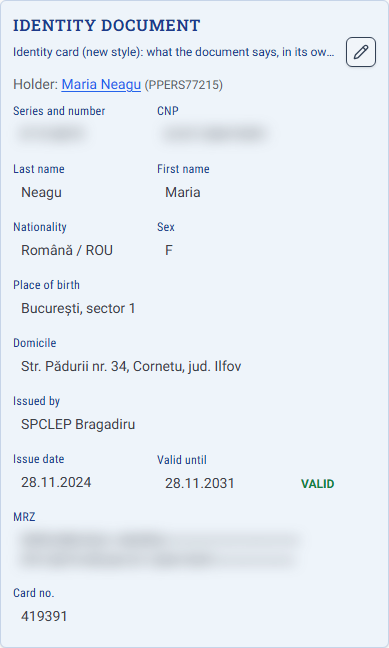
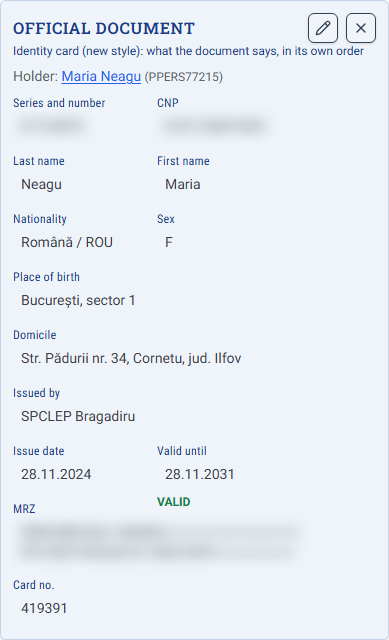
docs(manual): chapters 6, 10 and 11 after 41.13–41.85, with their figures re-shot (41.93)
Both languages:
- chapter 6: the „Tip" column without a funnel (41.55); „Pagini" blue, not purple
  (41.68 — e4313fa1 fixed chapter 2 and missed this line); the four identity
  types „(F)", their form „Actul oficial" (41.49, 41.50); the notary office a
  „Notar" link in „Legături", which „Dezasociază" refuses (41.53); the status
  under „Valabil până la" (41.32); „Creează persoane din CI" disabled while the
  act has a holder (41.33); „Preț și plată" as migration_123 lays it out
  (41.25); every link or unlink of „Actul modificat" a version of the act
  adițional, and no fallback field offered while it is linked (41.54, 41.31);
- chapter 10: „Țară" chosen from „Țara adresei" (41.51); „Cetățenia" kept as
  printed, „Forme tipărite" (41.52); the CI button only while there is no holder
  (41.33);
- chapter 11: a name in the tree opens the person with „Adaugă o rudă" (41.72);
  „Deschide arborele întreg" over the person's screen, „Restrânge" back into the
  tile (41.87 — e4313fa1 fixed only chapter 3).
Quizzes corrected in place: documents-read-pages a1 (blue), documents-choose-
document-type b6 (the identity types have a form).
Figures re-shot from the dev seed, both languages, 0 maps: documents-antecontract,
documents-pages, documents-sale, identity-document (series, number, CNP and MRZ
blurred), reports-search.

Claude-Session: https://claude.ai/code/session_011Fi7mpRoEhCFzhM2R3W5NG

diff --git a/src/lib/manual/content/ro-RO/06-documents.ts b/src/lib/manual/content/ro-RO/06-documents.ts
@@ -23,7 +23,7 @@ Deasupra tabelului, pe un rând, stau caseta de căutare („caută după Cod, T
 
 ### 6.1.1 Filtrele listei {#documents-list-filters}
 
-Lista actelor se filtrează ca lista proprietăților, din pâlnia din colțul numelui unei coloane (secțiunea [[properties-list-filters]]). Pâlnia de pe „Tip” deschide aceeași listă de bife ca „Tip document:”, iar cele două arată mereu aceeași alegere. „Tip document:” și „Câmp specific:”, de pe rândul de sus, sunt mereu acolo și se poartă ca mai sus; filtrele puse din coloane devin etichete pe rândul de sub el, care apare doar cât timp este pus unul. „Expiră curând”, de pe același rând de sus, lângă „Câmpuri afișate”, este tot un filtru: apăsat, lista păstrează doar actele a căror valabilitate se încheie în curând; apăsat din nou, renunță la filtru.
+Lista actelor se filtrează ca lista proprietăților, din pâlnia din colțul numelui unei coloane (secțiunea [[properties-list-filters]]). Coloana „Tip” nu are pâlnie: tipul se alege doar din „Tip document:”. „Tip document:” și „Câmp specific:”, de pe rândul de sus, sunt mereu acolo și se poartă ca mai sus; filtrele puse din coloane devin etichete pe rândul de sub el, care apare doar cât timp este pus unul. „Expiră curând”, de pe același rând de sus, lângă „Câmpuri afișate”, este tot un filtru: apăsat, lista păstrează doar actele a căror valabilitate se încheie în curând; apăsat din nou, renunță la filtru.
 
 Coloanele care se pot filtra, alese în „Câmpuri afișate”:
 
@@ -39,7 +39,7 @@ Toate filtrele se adună, „Tip document:” și „Câmp specific:” cu tot: 
 
 Apăsați „Adaugă act”. Se deschide „Act nou”, cu fișa „Identificarea actului”. Alegeți întâi „Tip document” (secțiunea [[documents-type]]), apoi completați câmpurile și apăsați „Salvează”. Actul se deschide pe ecranul lui, cu titlul în capul ecranului și cu starea „Neprocesat”. Fiecare salvare face o versiune nouă a actului (secțiunea [[links-versions]]).
 
-Paginile se văd în fișa „Pagini”, mov, în dreapta formularului — pe un ecran îngust, sub el (Figura [[fig-documents-pages]]). Un act fără pagini arată „Nicio pagină adăugată”.
+Paginile se văd în fișa „Pagini”, albastră, în dreapta formularului — pe un ecran îngust, sub el (Figura [[fig-documents-pages]]). Un act fără pagini arată „Nicio pagină adăugată”.
 
 ![6.1 Fișa „Pagini” a unui act](documents-pages.png){#fig-documents-pages}
 
@@ -73,7 +73,7 @@ Pe rândul fiecărei pagini, lipite de marginea din dreapta a listei, sunt „No
 
 „Tip document” spune ce fel de act este, iar tipul hotărăște ce câmpuri are formularul, cum se numesc emitentul, numărul și data și ce roluri pot avea persoanele legate de act. Pe „Act nou”, câmpul pornește gol.
 
-Tipurile care au formular propriu se citesc în listă cu „(F)” după nume — de exemplu „Contract de Vânzare (F)”. „F” înseamnă că tipul are formular: ținând mouse-ul pe el, lista scrie întreg „(are formular)”. Cum alegeți un astfel de tip, formularul crește cu fișele lui. Un tip fără formular păstrează doar câmpurile generale ale actului. Pentru un utilizator cu rol de superutilizator, sub „Tip document” al unui tip fără formular scrie „Acest tip nu are încă formular; formularul se construiește în Distilare Tipizate.”, iar „Distilare Tipizate” deschide instrumentul cu tipul deja ales (secțiunea [[tools-doc-type-engine]]).
+Tipurile care au formular propriu se citesc în listă cu „(F)” după nume — de exemplu „Contract de Vânzare (F)”. „F” înseamnă că tipul are formular: ținând mouse-ul pe el, lista scrie întreg „(are formular)”. Tot cu „(F)” se citesc cele patru tipuri de act de identitate: formularul lor este fișa „Actul oficial” (secțiunea [[documents-identity]]). Cum alegeți un astfel de tip, formularul crește cu fișele lui. Un tip fără formular păstrează doar câmpurile generale ale actului. Pentru un utilizator cu rol de superutilizator, sub „Tip document” al unui tip fără formular scrie „Acest tip nu are încă formular; formularul se construiește în Distilare Tipizate.”, iar „Distilare Tipizate” deschide instrumentul cu tipul deja ales (secțiunea [[tools-doc-type-engine]]).
 
 Fișele care se văd se aleg cu bifele din „Panouri”, ca pe orice obiect (secțiunea [[start-tiles]]), iar alegerea se ține minte pentru fiecare tip: un contract de vânzare-cumpărare și un plan își păstrează fiecare aranjamentul lui. Dacă schimbați tipul unui act, se schimbă și fișele.
 
@@ -90,6 +90,8 @@ Fiecare act începe cu fișa „Identificarea actului”: „Tip document”, ap
 | Certificat de Moștenitor | Notariat | Nr. certificat de moștenitor | Data eliberării |
 
 **Emitentul este o persoană juridică.** Lista lui ține persoanele juridice de un tip de autoritate publică — instanțe, birouri notariale, primării, oficiul de cadastru (secțiunea [[companies-add-public-bodies]]); lupa de lângă ea, „Caută o persoană juridică”, găsește orice persoană juridică după denumire, poreclă, cod sau CUI, întâi autoritățile publice. Când AI-ul importului a citit un emitent pe pagini și actul nu are încă unul, câmpul arată sub căsuță ce a citit — „Citit de AI ca emitent: „…”” — cu un singur buton: „Folosește „…”” când instituția e în arhivă, sau „Adaugă „…” ca persoană juridică” când nu e. Nu se alege nimic până nu apăsați, și nu se păstrează nimic până la „Salvează”. O instituție adăugată astfel primește tipul pe care i-l sugerează numele și o legătură spre ecranul ei, unde îi adăugați CUI-ul și o completați din ANAF (secțiunea [[companies-add-anaf]]).
+
+**Biroul notarial este și o legătură.** La cele cinci tipuri al căror emitent se numește „Notariat” — „Contract de Vânzare”, „Act Adițional”, „Certificat de Moștenitor”, „Act de Donație” și „Testament” —, biroul ales la „Notariat” apare după „Salvează” și pe „Legături”, la persoanele juridice, cu rolul „Notar”. Dacă alegeți alt birou, legătura trece la el. Legătura aceasta nu se scoate din „Legături”: „Dezasociază” răspunde „Biroul notarial se schimbă din „Identificarea actului”.”. Un notar legat de mână, cu „Asociază persoană”, rămâne cum este.
 
 Tot aici stau câmpurile generale: „Etichetă scurtă”, titlul actului — cel din coloana „Titlu” a listei —, „Subiect” și „Note extinse”. Căsuțele în care scrieți text cresc singure cât e nevoie.
 
@@ -108,9 +110,10 @@ Un act de unul dintre cele patru tipuri de act de identitate (secțiunea [[perso
 ![6.2 Fișa „Actul oficial” a unei cărți de identitate](identity-document.png){#fig-identity-document}
 
 - Sus, „Titular:” numește persoana legată de act ca „Titular act de identitate”, cu legătura spre ea.
-- Lângă „Valabil până la” — la pașaport, „Data expirării” — stă starea: „VALABIL”, „EXPIRAT” sau „EXPIRĂ ÎN 30 ZILE”, ca pe persoană. Buletinul vechi nu are această dată, deci nici stare.
+- Sub „Valabil până la” — la pașaport, „Data expirării” — stă starea: „VALABIL”, „EXPIRAT” sau „EXPIRĂ ÎN 30 ZILE”, ca pe persoană. Buletinul vechi nu are această dată, deci nici stare.
 - Un CNP fără cifra de control corectă nu se salvează: „CNP-ul trebuie să aibă 13 cifre și o cifră de control corectă.”. Un CNP care nu se potrivește cu „Sex” sau cu data nașterii se salvează, cu un avertisment sub fișă.
 - La schimbarea tipului între două acte de identitate, „Schimbă tipul…” arată ce câmpuri de identitate se șterg la salvare (secțiunea [[documents-type]]). Un act de identitate nu trece la un tip obișnuit cât timp are date de identitate completate: fereastra o spune și nu are „Confirmă”.
+- „Creează persoane din CI” citește prima pagină a actului și creează titularul și părinții lui (secțiunea [[persons-id-card-document]]). Cât timp actul are un titular, butonul este inactiv; ținut sub mouse, spune „Actul are deja un titular: …”.
 
 Un act de identitate nou se face din „Acte” → „Adaugă act”, alegând tipul, sau de pe persoană, cu „Adaugă act de identitate” (secțiunea [[persons-identity-documents]]). Câmpurile fiecărui fel de act se văd, doar de citit, în „Date de referință” (secțiunea [[admin-reference-data-document-types]]).
 
@@ -152,7 +155,7 @@ Fișele formularului și panourile lor:
 
 În „[Taxe și onorarii]” stau, câte două pe un rând, „Onorariu notarial” și „Impozit transfer”, apoi „Timbru judiciar” și „Taxă timbru și publicitate”.
 
-Câteva câmpuri stau într-o ordine anume. În „[Preț]”, primul rând este „Preț total”, „Monedă” și „Preț declarat real”. În „[Situația în cartea funciară]”, „Marcaj carte funciară” stă singur, iar „Consimțământ radiere” și „Intabulare posibilă” sunt pe rândul de sub el. În „[Excepția de la cadastru]”, „Temei excepție cadastru”, „Termen formalități” și „Completare ulterioară” țin fiecare un rând întreg, iar „Renunțare cercetare OCPI” și „Obligație număr cadastral” stau singure pe rândul lor. În „[Plată]”, „Stare plată” și „Data plății” stau pe un rând, iar „Modalitate plată” pe rândul de sub „Stare plată”. În „[Dosar cadastral]”, „Documentație finalizată” stă sub „Categorie internă”. Declarațiile vânzătorului stau câte două pe un rând, de la „Circuit civil” și „Liber de sarcini”. În „[Garanții]”, „Garanție evicțiune” și „Garanție vicii ascunse” sunt pe un rând, iar „Temei legal evicțiune”, sub ele, cât toată fișa. În „[Cheltuieli]”, „Cheltuieli perfectare” și „Plătitor taxe locale” sunt pe un rând, iar „Taxe locale la zi” pe rândul de sub ele.
+Câteva câmpuri stau într-o ordine anume. În „[Preț]”, „Preț total” și „Monedă” stau pe primul rând, „Preț declarat real” pe rândul de sub ele, iar „Temei preț” și „Alocare preț” țin fiecare un rând întreg. În „[Situația în cartea funciară]”, „Marcaj carte funciară” stă singur, iar „Consimțământ radiere” și „Intabulare posibilă” sunt pe rândul de sub el. În „[Excepția de la cadastru]”, „Temei excepție cadastru”, „Termen formalități” și „Completare ulterioară” țin fiecare un rând întreg, iar „Renunțare cercetare OCPI” și „Obligație număr cadastral” stau singure pe rândul lor. În „[Plată]”, „Stare plată”, „Data plății” și „Modalitate plată” stau una sub alta, fiecare pe rândul ei. În „[Dosar cadastral]”, „Documentație finalizată” stă sub „Categorie internă”. Declarațiile vânzătorului stau câte două pe un rând, de la „Circuit civil” și „Liber de sarcini”. În „[Garanții]”, „Garanție evicțiune” și „Garanție vicii ascunse” sunt pe un rând, iar „Temei legal evicțiune”, sub ele, cât toată fișa. În „[Cheltuieli]”, „Cheltuieli perfectare” și „Plătitor taxe locale” sunt pe un rând, iar „Taxe locale la zi” pe rândul de sub ele.
 
 **Fișa „Părți”** ține vânzătorii și cumpărătorii, după regula din secțiunea [[documents-parties]]. Părțile stau pe grupe, sub numele rolului — „Vânzător” întâi, apoi „Cumpărător” —, fiecare rând cu „Cotă” lui (secțiunea [[documents-parties]]). Un contract fără părți spune „Nicio parte asociată încă. Asociați părțile cu rolul și cota lor.” „Asociază persoană” adaugă o parte: căutați persoana după „Nume” sau „Cod”, alegeți „Rol”, bifați rândul și apăsați „Asociază selecția”. „Dezasociază” scoate partea selectată. Celelalte persoane ale contractului, de pildă notarul, stau pe „Legături”, iar proprietățile vândute se leagă tot de acolo.
 
@@ -182,9 +185,9 @@ Pe contract, antecontractul apare și în formular: în „[Preț]”, „Temei 
 
 Un act adițional modifică un alt act. Are fișele „Identificarea actului” (cu numele notariale, apoi „Calitate exemplar” și „Onorariu notarial” pe un rând și „Exemplare emise” sub ele, cât toată fișa), „Actul modificat”, „Ce modifică” și „Părți”, care ține, ca la contract, vânzătorii și cumpărătorii (secțiunea [[documents-parties]]).
 
-„Actul modificat” leagă actul adițional de contractul pe care îl modifică. Salvați întâi actul adițional, apoi apăsați „Leagă actul modificat”, căutați la „Caută actul modificat” după etichetă sau număr și apăsați „Leagă” pe actul potrivit. Fișa arată atunci actul legat, tipul lui și „Deschide”; „Dezleagă” desface legătura.
+„Actul modificat” leagă actul adițional de contractul pe care îl modifică. Salvați întâi actul adițional, apoi apăsați „Leagă actul modificat”, căutați la „Caută actul modificat” după etichetă sau număr și apăsați „Leagă” pe actul potrivit. Fișa arată atunci actul legat, tipul lui și „Deschide”; „Dezleagă” desface legătura. Fiecare legare și fiecare dezlegare face o versiune nouă a actului adițional (secțiunea [[links-versions]]): o versiune mai veche arată, doar de citit, actul pe care îl modifica atunci, iar „Fă curentă” îl leagă din nou — sau spune de ce nu se poate, de exemplu „Actul „…” nu mai există; legătura nu s-a refăcut.”.
 
-Dacă actul modificat nu este în arhivă, fișa scrie „Actul modificat nu e în arhivă — datele lui, așa cum le dă actul adițional:” și oferă patru câmpuri, întâi „Nr. act părinte”. Când legați actul, câmpurile acestea se ascund, dar nu se golesc; dacă îl dezlegați, reapar cu valorile lor. Un act adițional modifică un singur act: un al doilea este refuzat, cu „Acest act adițional modifică deja „…”. Dezlegați-l întâi.”
+Dacă actul modificat nu este în arhivă, fișa scrie „Actul modificat nu e în arhivă — datele lui, așa cum le dă actul adițional:” și oferă patru câmpuri, întâi „Nr. act părinte”. Când legați actul, câmpurile acestea se ascund, dar nu se golesc — nici linkul fișei cu câmpurile goale nu le mai oferă; dacă îl dezlegați, reapar cu valorile lor. Un act adițional modifică un singur act: un al doilea este refuzat, cu „Acest act adițional modifică deja „…”. Dezlegați-l întâi.”
 
 „Ce modifică” ține „Motiv completare”, „Efect urmărit”, „Preț neschimbat” și clauzele schimbate.
 

diff --git a/src/lib/manual/content/ro-RO/10-import.ts b/src/lib/manual/content/ro-RO/10-import.ts
@@ -131,7 +131,9 @@ Spre sfârșitul importului se deschid, pe rând, două feluri de ferestre.
 „Creează persoană din cartea de identitate” („Card 1 din 2”, de exemplu) se deschide pentru fiecare act de identitate: carte de identitate, veche sau nouă, ori pașaport. O singură citire hotărăște întâi ce fel de act este și o spune — „Act citit: Pașaport.”, de exemplu; dacă importul îl clasificase altfel, fereastra adaugă că la salvare actul trece la felul citit. Apoi arată separat ce se scrie pe act și ce se scrie pe persoană (secțiunea [[persons-identity-documents]]):
 
 - „Pe act — …”: numărul, datele și emitentul, doar cele pe care le are felul actului; în caseta „Se completează și pe act — …”, ce are numai actul, de pildă „Domiciliu”, „Starea civilă” sau „Codul țării”;
-- „Pe persoană — Identitate”: numele, CNP-ul, genul, nașterea, cetățenia și domiciliul, ca adresă de domiciliu — la un pașaport doar județul, la un pașaport CRDS doar țara.
+- „Pe persoană — Identitate”: numele, CNP-ul, genul, nașterea, cetățenia și domiciliul, ca adresă de domiciliu — la un pașaport doar județul, la un pașaport CRDS doar țara. „Țară” se alege din lista „Țara adresei”.
+
+Cetățenia rămâne pe act exact cum e tipărită, cu amândouă jumătățile ei — numele și codul țării, de exemplu Română / ROU. Pe persoană, „Cetățenie” se alege din listă, iar sub ea fereastra arată, doar de citit, ce a tipărit actul: „Pe act: „…””. O formă tipărită pe care lista n-o recunoaște se învață în „Date de referință”, la „Cetățenie”, în câmpul „Forme tipărite” — de exemplu ROU, ROUMAINE, despărțite prin virgulă (secțiunea [[admin-reference-data]]).
 
 Fereastra caută titularul în arhivă după CNP. Dacă îl găsește, „Persoana există deja”: comparați datele și apăsați „Confirmă și leagă”; persoana primește doar câmpurile pe care nu le avea completate, iar ce avea nu se înlocuiește. Dacă nu, „Persoană nouă”: apăsați „Creează și leagă”. Persoanele cu nume asemănător apar la „Potriviri posibile”, ca sugestii, nu ca potriviri sigure. Titularul este legat de carte ca „Titular act de identitate”. Sub el, „Părinții titularului” propune tatăl și mama de pe carte, legați apoi de titular ca „Tată” și „Mamă” (secțiunea [[persons-id-card]]). „Instituție emitentă” oferă emitenții, persoane juridice de un tip de autoritate publică; când autoritatea de pe carte nu e printre ei, „Adaugă „…” ca persoană juridică” o face, cu tipul pe care i-l sugerează numele (secțiunea [[companies-add-public-bodies]]).
 
@@ -139,7 +141,7 @@ Fereastra caută titularul în arhivă după CNP. Dacă îl găsește, „Persoa
 
 Pentru o firmă nouă al cărei CUI l-a citit AI-ul, fereastra are și „Completează din ANAF” (secțiunea [[companies-add-anaf]]). Apăsat, arată ce ar completa ANAF față de ce a citit AI-ul — numărul de la registrul comerțului, telefonul, tipul, adresa sediului —, cu aceleași bife: câmpurile goale bifate, cele citite altfel doar dacă le bifați. La „Creează și asociază”, firma se creează cu valorile bifate, deci ajunge în arhivă completă.
 
-**Răspundeți atunci.** După ce închideți fereastra importului, persoanele găsite în documente nu mai sunt oferite: „După ce închideți, nu mai există unde.” Unui act de identitate rămas fără răspuns îi rămâne „Creează persoane din CI”, pe ecranul actului (secțiunea [[persons-id-card-document]]).
+**Răspundeți atunci.** După ce închideți fereastra importului, persoanele găsite în documente nu mai sunt oferite: „După ce închideți, nu mai există unde.” Unui act de identitate rămas fără răspuns îi rămâne „Creează persoane din CI”, pe ecranul actului, cât timp actul nu are încă un titular (secțiunea [[persons-id-card-document]]).
 
 ### 10.4.5 Planurile parcelare și tarla lor {#import-scanning-tarla}
 

diff --git a/src/lib/manual/content/en-GB/10-import.ts b/src/lib/manual/content/en-GB/10-import.ts
@@ -131,7 +131,9 @@ Towards the end of the import two kinds of window open, one after another.
 „Create person from ID card” („Card 1 of 2”, for example) opens for each identity document: an identity card, old or new, or a passport. A single reading first decides what kind of document it is and says so — „Document read: Passport.”, for example; if the import had classified it otherwise, the window adds that on saving the document changes to the kind read. Then it shows apart what is written on the document and what is written on the person (section [[persons-identity-documents]]):
 
 - „On the document — …”: the number, the dates and the issuer, only those the kind of document has; in the box „Also filled on the document — …”, what only the document has, such as „Domicile”, „Civil status” or „Country code”;
-- „On the person — Identity”: the names, the CNP, the gender, the birth, the citizenship and the domicile, as the home address — for a passport only the county, for a CRDS passport only the country.
+- „On the person — Identity”: the names, the CNP, the gender, the birth, the citizenship and the domicile, as the home address — for a passport only the county, for a CRDS passport only the country. „Country” is chosen from the list „Address country”.
+
+The citizenship stays on the document exactly as it is printed, with both its halves — the country's name and its code, ROU for instance. On the person, „Citizenship” is chosen from the list, and under it the window shows, read-only, what the document printed: „On the document: „…””. A printed form the list does not recognise is taught in „Reference Data”, under „Citizenship”, in the field „Printed forms” — for example ROU, ROUMAINE, separated by commas (section [[admin-reference-data]]).
 
 The window looks for the holder in the archive by CNP. If it finds them, „This person already exists”: compare the details and press „Confirm and link”; the person receives only the fields they had empty, and nothing they had is replaced. If not, „New person”: press „Create and link”. Persons with a similar name appear under „Possible matches”, as suggestions, not as sure matches. The holder is linked to the card as „Titular act de identitate” (identity-document holder). Below, „The holder's parents” proposes the father and mother from the card, then linked to the holder as „Tată” and „Mamă” (section [[persons-id-card]]). „Issuing institution” offers the issuers, juridical persons of a public-body type; when the card's authority is not among them, „Add “…” as a juridical person” makes it, with the type its name suggests (section [[companies-add-public-bodies]]).
 
@@ -139,7 +141,7 @@ The window looks for the holder in the archive by CNP. If it finds them, „This
 
 For a new firm whose CUI the AI read, the window also has „Fill in from ANAF” (section [[companies-add-anaf]]). Pressed, it shows what ANAF would fill in beside what the AI read — the trade register number, the phone, the type, the head office address — with the same ticks: the empty fields ticked, those read differently only if you tick them. With „Create & link”, the firm is created with the ticked values, so it arrives in the archive complete.
 
-**Answer then.** Once you close the import's window, the persons found in documents are not offered again: „Once you close, there is nowhere left.” An identity document left unanswered still has „Create people from the ID card”, on the document's screen (section [[persons-id-card-document]]).
+**Answer then.** Once you close the import's window, the persons found in documents are not offered again: „Once you close, there is nowhere left.” An identity document left unanswered still has „Create people from the ID card”, on the document's screen, as long as the document has no holder yet (section [[persons-id-card-document]]).
 
 ### 10.4.5 Plans parcelare and their tarla {#import-scanning-tarla}
 

diff --git a/src/lib/manual/content/ro-RO/11-reports.ts b/src/lib/manual/content/ro-RO/11-reports.ts
@@ -109,11 +109,11 @@ Rotiți rotița mouse-ului peste arbore ca să treceți de la un nivel la altul,
 
 Ca să ajungeți la o persoană, scrieți-i numele în „Caută o persoană…” și apăsați „Caută”: arborele se centrează pe ea, la nivelul cel mai apropiat, iar cartea ei se deschide alături. Dacă numele nu este în arbore, apare „Nicio persoană cu acest nume în arbore.”.
 
-Când țineți mouse-ul pe o persoană, o carte mică îi arată numele, data nașterii și câte legături de familie are. Un clic pe ea deschide cartea din lateral, cu „Deschide” și „Închide”. Orice nume deschide ecranul persoanei, cu panoul rudelor din fișa „Arbore de moștenire” deja deschis — de acolo adăugați sau scoateți o rudă.
+Când țineți mouse-ul pe o persoană, o carte mică îi arată numele, data nașterii și câte legături de familie are. Un clic pe ea deschide cartea din lateral, cu „Deschide” și „Închide”. Orice nume deschide ecranul persoanei, cu „Adaugă o rudă” din fișa „Arbore de moștenire” deja deschisă — de acolo legați o rudă, iar „Scoate o rudă” scoate una (secțiunea [[persons-relatives-tree]]).
 
 O persoană marcată „Decedat” are „†” după nume și anii vieții sub el, de exemplu „1955–2010”.
 
-Din fișa „Arbore de moștenire” a unei persoane, „Deschide arborele întreg” deschide ecranul acesta centrat pe ea.
+Din fișa „Arbore de moștenire” a unei persoane, „Deschide arborele întreg” deschide același arbore, centrat pe ea, chiar peste ecranul persoanei, iar „Restrânge” îl strânge la loc în fișă (secțiunea [[persons-relatives-tree]]).
 
 ### 11.2.2 Actele din arbore și „Acte comune” {#reports-inheritance-documents}
 

diff --git a/src/lib/manual/content/en-GB/11-reports.ts b/src/lib/manual/content/en-GB/11-reports.ts
@@ -109,11 +109,11 @@ Turn the mouse wheel over the tree to go from one level to another, and drag wit
 
 To reach a person, type their name into „Find a person…” and press „Find”: the tree centres on them, at the nearest level, and their card opens alongside. When the name is not in the tree, „No person by that name in the tree.” appears.
 
-When you hold the mouse over a person, a small card shows their name, their date of birth and how many family ties they have. A click on them opens the side card, with „Open” and „Close”. Any name opens the person's screen, with the relatives' panel of the „Inheritance tree” tile already open — from there you add or remove a relative.
+When you hold the mouse over a person, a small card shows their name, their date of birth and how many family ties they have. A click on them opens the side card, with „Open” and „Close”. Any name opens the person's screen, with „Add a relative” of the „Inheritance tree” tile already open — from there you tie in a relative, and „Remove a relative” removes one (section [[persons-relatives-tree]]).
 
 A person marked „Deceased” has „†” after the name and the years of their life under it, for instance „1955–2010”.
 
-From a person's „Inheritance tree” tile, „Open the whole tree” opens this screen centred on them.
+From a person's „Inheritance tree” tile, „Open the whole tree” opens the same tree, centred on them, right over the person's screen, and „Collapse” takes it back into the tile (section [[persons-relatives-tree]]).
 
 ### 11.2.2 The documents in the tree and „Shared documents” {#reports-inheritance-documents}
 
